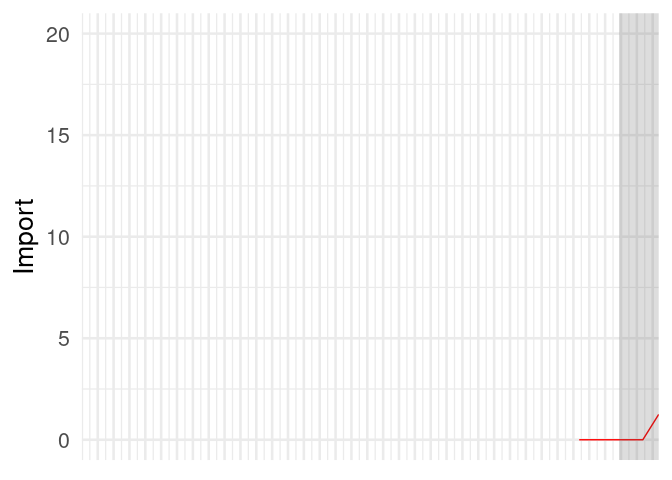
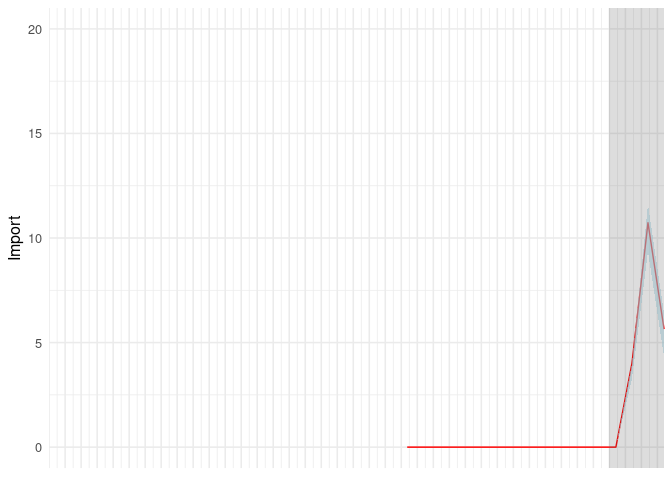
updated 2021-12-20

diff --git a/Omicron_EqualRates.md b/Omicron_EqualRates.md
@@ -1,6 +1,6 @@
-SARS-CoV-2 Omicron variant: All samples equal rates in/out Norway
+SARS-CoV-2 Omicron variant: All samples equal - rates in/out Norway
 ================
-14/12/2021
+20/12/2021
 
 Phylogeographic mapping
 
@@ -13,7 +13,7 @@ the dated phylogeny.
 
 ![Test](Omicron_EqualRates_files/figure-gfm/unnamed-chunk-1-1.png)
 
-##### Fig. 1. B.1.617.2 phylogeny colored by binary geographic mappings (Norway, rest of the world \[RoW\]).
+##### Fig. 1. Omicron phylogeny colored by binary geographic mappings (Norway, rest of the world \[RoW\]).
 
 Quantifying introductions and local transmission
 
@@ -21,17 +21,16 @@ Below is a visualization of the size of each transmission lineage
 detected in Norway.
 
 ![](Omicron_EqualRates_files/figure-gfm/unnamed-chunk-2-1.png)<!-- -->
-\#\#\#\#\# Fig. 2. B.1.617.2 transmission lineage sizes in Norway. G
-denotes the number assigned to each lineage, S denotes the size of the
-lineage and TMRCA denotes the age of the lineage.
+
+##### Fig. 2. Omicron transmission lineage sizes in Norway. G denotes the number assigned to each lineage, S denotes the size of the lineage and TMRCA denotes the age of the lineage.
 
 ##### Table 1. Estimated number of infections in Norway resulting from import and local transmission based on the phylogeographic analyses in Figure 1.
 
-|                    |   2.5% |     50% |   97.5% |
-|:-------------------|-------:|--------:|--------:|
-| Import             | 9.0000 | 10.0000 | 10.0000 |
-| Local transmission | 4.0000 |  4.0000 |  5.0000 |
-| Import / Total     | 0.6429 |  0.7143 |  0.7143 |
+|                    |    2.5% |     50% |   97.5% |
+|:-------------------|--------:|--------:|--------:|
+| Import             | 19.0000 | 20.5000 | 21.0000 |
+| Local transmission | 34.0000 | 34.5000 | 36.0000 |
+| Import / Total     |  0.3455 |  0.3727 |  0.3818 |
 
 Next, we estimate the fraction of introductions relative to local
 transmission over time. In these and subsequent analyses it is important
@@ -43,10 +42,8 @@ the time of sampling of the most recent included isolate is shaded to
 indicate that estimates in this period is highly uncertain.
 
 ![](Omicron_EqualRates_files/figure-gfm/unnamed-chunk-5-1.png)<!-- -->
-\#\#\#\#\# Fig. 3. Relative quantification of infection source (new
-introduction / import vs local transmission). Grey shading indicates
-that inferences in this period (last 4 weeks) are uncertain due to
-detection lag.
+
+##### Fig. 3. Relative quantification of infection source (new introduction / import vs local transmission). Grey shading indicates that inferences in this period (last 4 weeks) are uncertain due to detection lag.
 
 The same output is visualized as absolute numbers in Fig. 3 below. It
 should be noted that absolute estimates will be significantly shaped by
